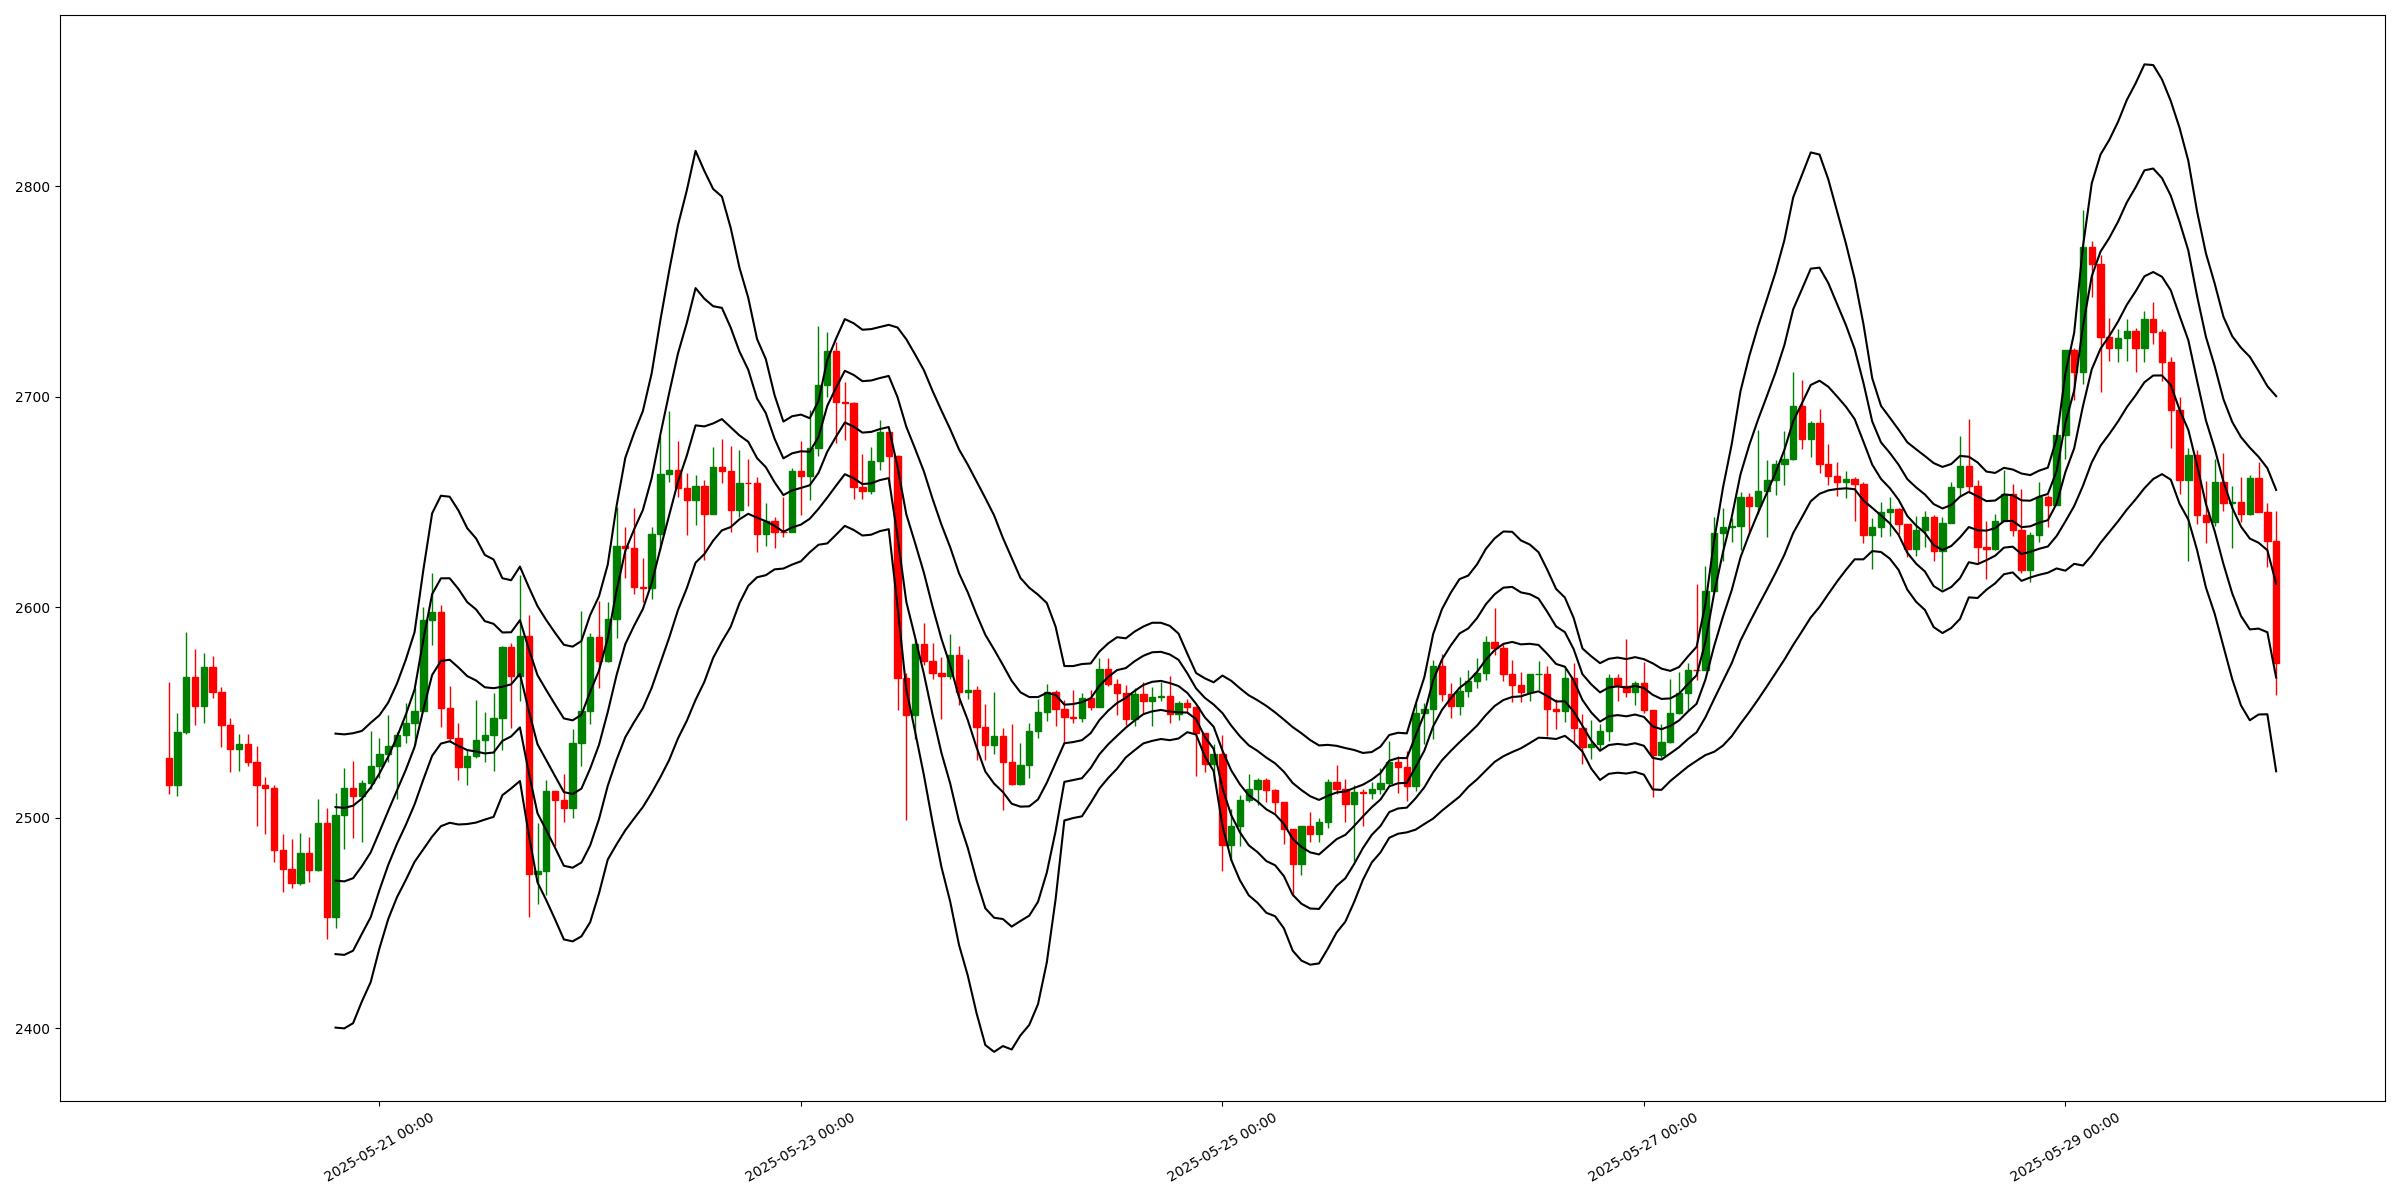
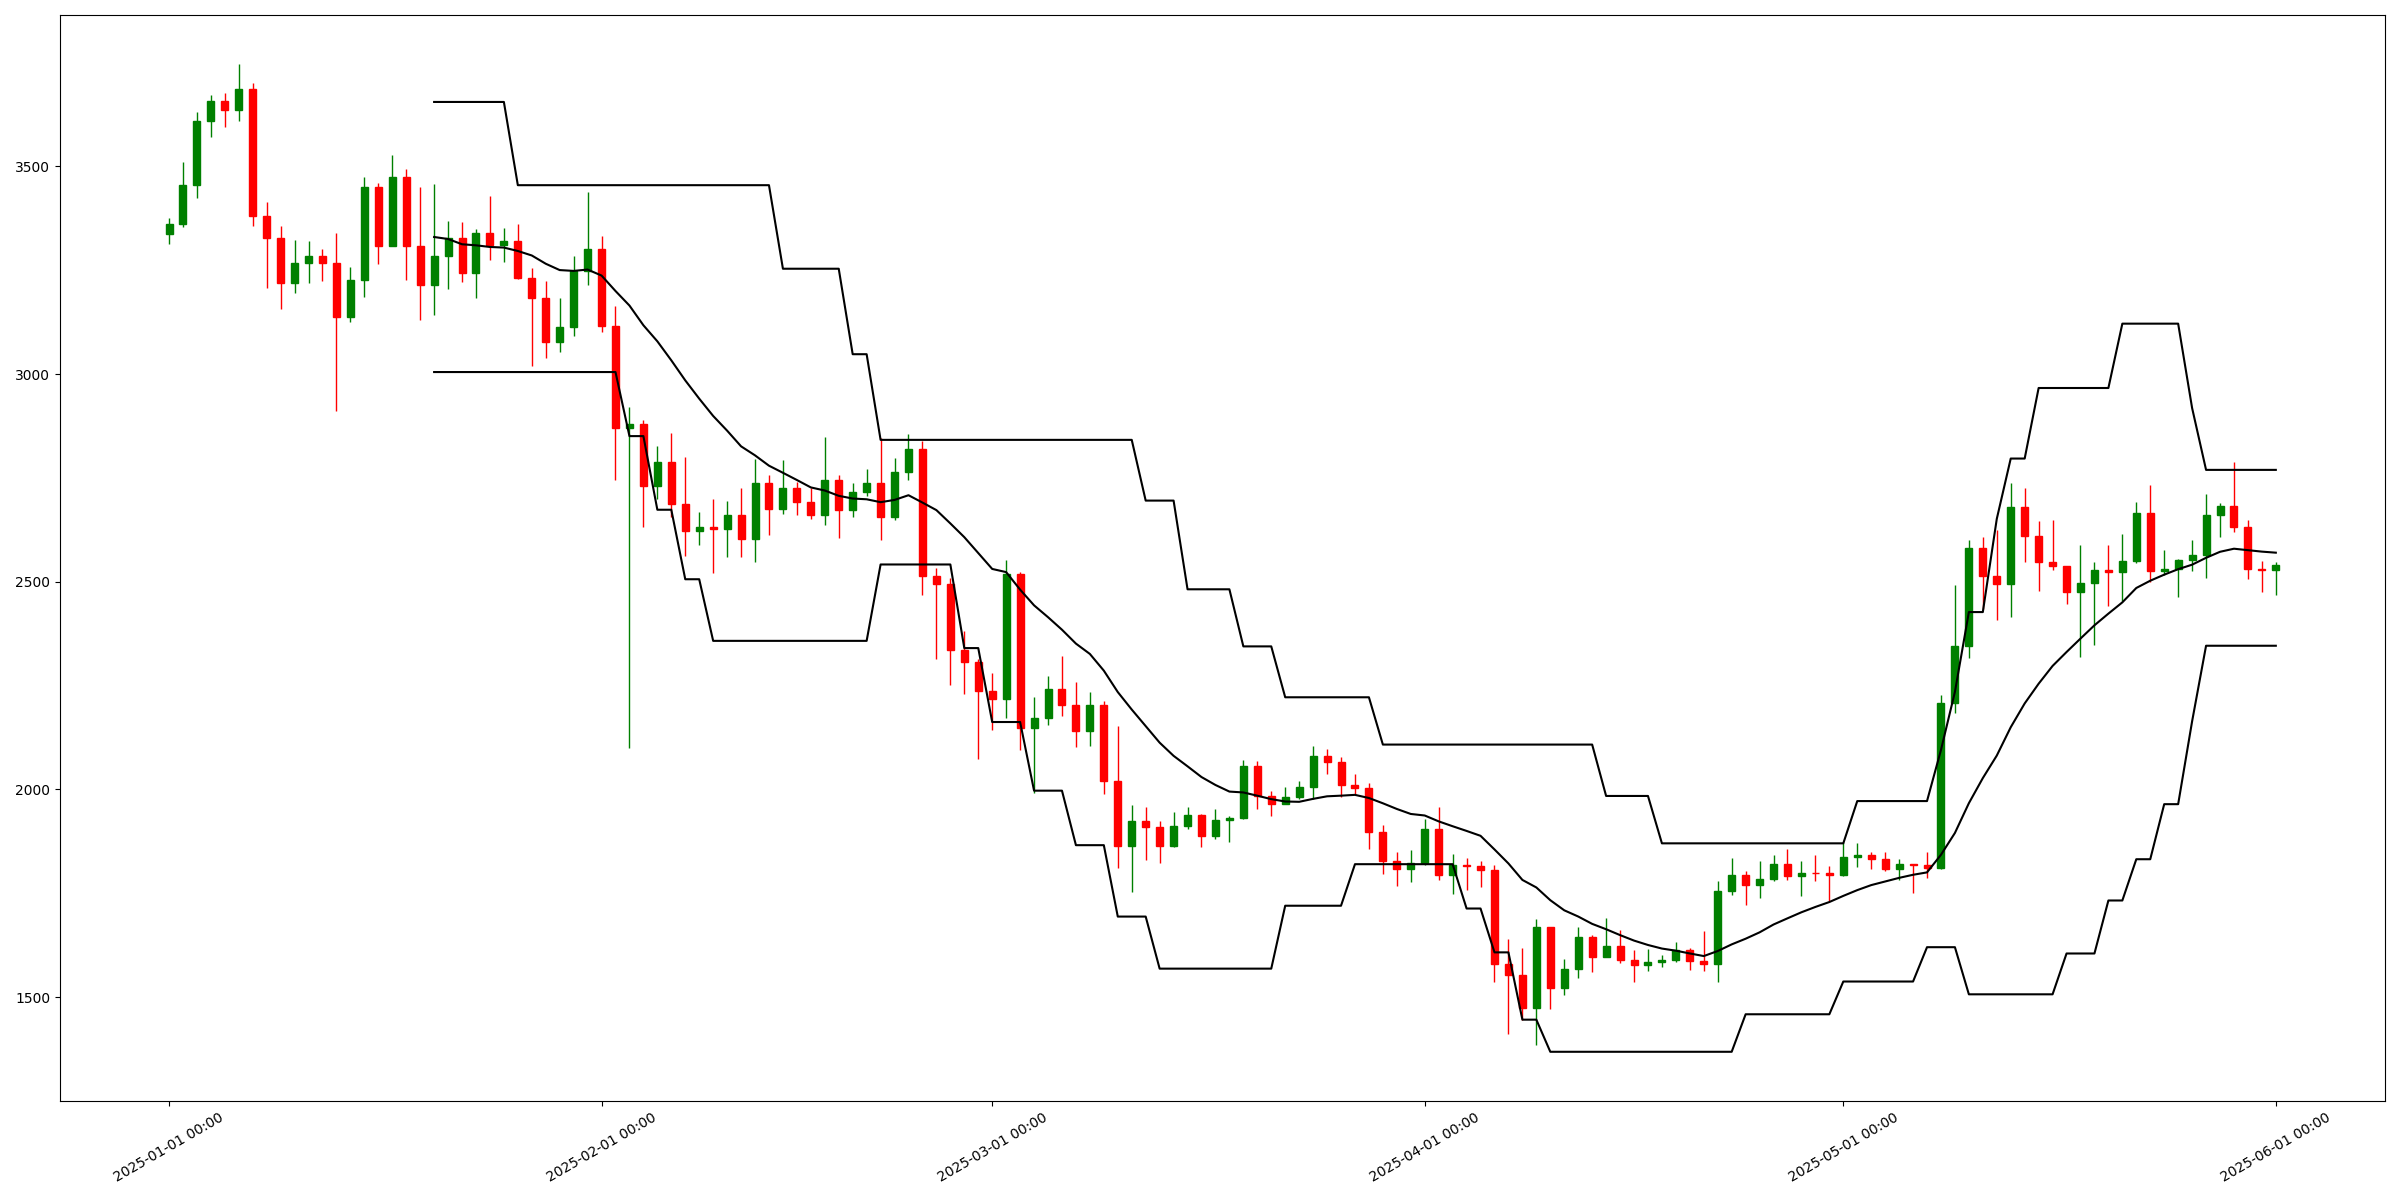
update tools

diff --git a/backtest/tools.py b/backtest/tools.py
@@ -39,31 +39,72 @@ def sync_dfs(frames: list):
     pass
 
 
-def linreg(y: pd.Series, length: int) -> pd.Series:
-    """
-    Возвращает линию линейной регрессии (аналог ta.linreg в Pine Script).
-    
-    Parameters:
-        y (pd.Series): Ценовой ряд (например, Close).
-        length (int): Длина окна.
-    
-    Returns:
-        pd.Series: Кривая линейной регрессии (ŷ) той же длины.
-    """
-    def _linreg(values):
-        x = np.arange(len(values))
-        y = np.array(values)
-        if len(y) != length or np.isnan(y).any():
-            return np.nan
-        slope, intercept = np.polyfit(x, y, 1)
-        return intercept + slope * x[-1]  # ŷ в последней точке окна
+def lz(series: pd.Series, lzf: float) -> pd.Series:
+    lz_values = []
+    prev_lz = None
 
-    return y.rolling(length).apply(_linreg, raw=False)
+    for i in range(len(series)):
+        x = series.iloc[i]
+
+        if pd.isna(x):
+            lz_values.append(np.nan)
+            continue
+
+        if prev_lz is None:
+            prev_lz = x
+            lz_values.append(x)
+            continue
+
+        s = np.sign(x)
+        upper = prev_lz + lzf * abs(prev_lz) * s
+        lower = prev_lz - lzf * abs(prev_lz) * s
+
+        if i > 0 and x == series.iloc[i - 1]:
+            lz_val = x
+        elif x > upper or x < lower:
+            lz_val = x
+        else:
+            lz_val = prev_lz
+
+        prev_lz = lz_val
+        lz_values.append(lz_val)
+
+    return pd.Series(lz_values, index=series.index)
+
+
+
+def wma(series: pd.Series, length: int) -> pd.Series:
+    weights = np.arange(1, length + 1)
+    wma = series.rolling(window=length).apply(lambda x: np.dot(x, weights) / weights.sum(), raw=True)
+    return wma
+
+
+def lazy_bollinger_bands(src: pd.Series, length: int, mult: float, length_bbw: int, lzf: float) -> pd.DataFrame:
+    basis = wma(src, length)
+
+    # Стандартное отклонение
+    dev = mult * src.rolling(length).std()
+
+    upper = lz(basis + dev, lzf)
+    lower = lz(basis - dev, lzf)
+
+    bbw = (upper - lower) / basis * 100
+
+    # Сглаженный bbw
+    check_bbw = bbw.rolling(length_bbw).mean()
+
+    return pd.DataFrame({
+        "basis": basis,
+        "upper": upper,
+        "lower": lower,
+        "bbw": bbw,
+        "check_bbw": check_bbw
+    })
 
 
 def bollinger_bands(src: pd.Series, length: int, mult: float, length_bbw: int) -> pd.DataFrame:
     # Основная линия: линейная регрессия
-    basis = linreg(src, length)
+    basis = wma(src, length)
     
     # Стандартное отклонение
     dev = mult * src.rolling(length).std()
@@ -74,7 +115,7 @@ def bollinger_bands(src: pd.Series, length: int, mult: float, length_bbw: int) -
     bbw = (upper - lower) / basis * 100
 
     # Сглаженный bbw
-    check_bbw = linreg(bbw, length_bbw)
+    check_bbw = bbw.rolling(length_bbw).mean()
 
     return pd.DataFrame({
         "basis": basis,
@@ -103,18 +144,17 @@ def grid_bb(src: pd.Series, grid_cnt: int, length: int, mult: float) -> list:
     return grid_lst
 
 
-def get_data(length: int, mult: float, length_bbw: int, start_dt=None, end_dt=None):
+def get_data(length: int, mult: float, length_bbw: int, lzf: float, start_dt=None, end_dt=None):
     # Загружаем данные
-    d_15 = load_data('data/ETHUSDT_15.csv', start_dt, end_dt)
-    d_60 = load_data('data/ETHUSDT_60.csv', start_dt, end_dt)
+    d_60 = load_data('data/ETHUSDT_D.csv', start_dt, end_dt)
 
     # Расчитываем полосы Боллинджера
-    bb = bollinger_bands(d_60['Close'], length, mult, length_bbw)
+    bb = lazy_bollinger_bands(d_60['Close'], length, mult, length_bbw, lzf)
     d_60 = d_60.join(bb)
 
-    return d_15, d_60
+    return d_60
 
 
 if __name__ == '__main__':
-    d_15, d_60 = get_data(20, 2, 100)
+    d_15, d_60 = get_data(5, 2, 5, 0.05)
     print(d_60)

diff --git a/backtest/plot.py b/backtest/plot.py
@@ -3,7 +3,7 @@ from matplotlib.dates import DateFormatter
 from numpy import float64
 import pandas as pd
 
-from tools import load_data, grid_bb
+from tools import get_data, grid_bb
 
 
 def plot_candlestick(ax, data, width=0.001):
@@ -38,15 +38,32 @@ def plot_grids(ax, grid):
         ax.plot(date, grid_df[col], color='black')
 
 
+def plot_bb(ax, bb):
+    date = bb.Date
+    upper = bb.upper
+    lower = bb.lower
+    basis = bb.basis
+    ax.plot(date, upper, color='black')
+    ax.plot(date, lower, color='black')
+    ax.plot(date, basis, color='black')
+
+
 if __name__ == '__main__':
-    # Загружаем данные
-    data = load_data('data/ETHUSDT_60.csv', start_dt='2025-05-20', end_dt='2025-05-30')
+    grid_cnt = 4
+    length = 20
+    length_bbw = 10
+    mult = 2
+
+    # # Загружаем данные
+    data = get_data(length=length, mult=mult, length_bbw=length_bbw, lzf=0.05, start_dt='2025-01-01', end_dt='2025-06-01')
 
     # Загружаем сетку
-    grid = grid_bb(data['Close'], grid_cnt=4, length=20, mult=2)
-    grid_data = {f'grid_{i}': grid[i] for i in range(len(grid))}
-    grid_data['Date'] = data['Date']
-    grid_df = pd.DataFrame(grid_data)
+    # grid = grid_bb(data['Close'], grid_cnt=grid_cnt, length=length, mult=mult)
+    # grid_data = {f'grid_{i}': grid[i] for i in range(len(grid))}
+    # grid_data['Date'] = data['Date']
+    # grid_df = pd.DataFrame(grid_data)
+
+    bb_data = data[['Date', 'basis', 'upper', 'lower']]
 
     fig, ax = plt.subplots(figsize=(24, 12))
 
@@ -55,8 +72,13 @@ if __name__ == '__main__':
     ax.xaxis_date()  # Ось X будет интерпретироваться как временные метки
 
     # Рисуем Supertrend и свечи
-    plot_candlestick(ax, data, 0.03)
-    plot_grids(ax, grid_df)
+    plot_candlestick(ax, data, 0.5)
+    plot_bb(ax, bb_data)
+    # plot_grids(ax, grid_df)
+
+    # Закрашиваем области флета
+    # ax.fill_between(data['Date'], data["upper"], data["lower"],
+    #             where=data['bbw'] <= data['check_bbw'], color="limegreen", alpha=0.4, step="mid")
 
     plt.xticks(rotation=30)  # Поворот меток времени
     plt.tight_layout()  # Автоматически подгоняет график для улучшения отображения

diff --git a/backtest/collector.py b/backtest/collector.py
@@ -110,7 +110,10 @@ def get_historical_kline(
     # Разница в миллисекундах
     delta = int((end_time - start_time).total_seconds() * 1000)
     # Количество запросов
-    i = int(interval) * 60 * 1000
+    if interval == 'D':
+        i = int(24 * 60) * 60 * 1000
+    else:
+        i = int(interval) * 60 * 1000
     cnt_request = delta // i
     if delta % i != 0:
         cnt_request += 1
@@ -140,4 +143,4 @@ def get_historical_kline(
 
 
 if __name__ == "__main__":
-    get_historical_kline("ETHUSDT", "60", "2025-03-01 00:00:00", "2025-06-01 00:00:00")
+    get_historical_kline("ETHUSDT", "D", "2025-01-01 00:00:00", "2025-06-01 00:00:00")
